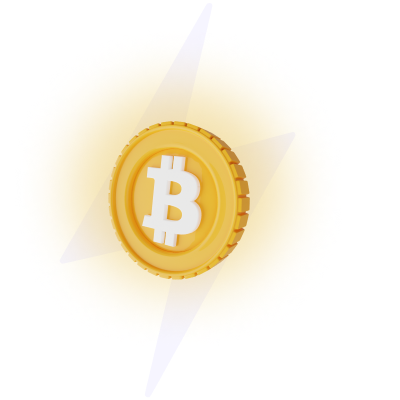
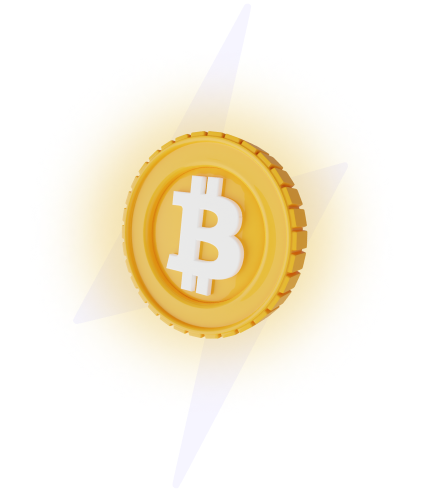
fix: Improve onboarding carousel
Setting viewportFraction: 1.0 uses the full space of the screen instead of only 80% (default).

Changed region(s): [[0.27, 0.24, 0.81, 0.72]]

diff --git a/mobile/lib/features/welcome/onboarding.dart b/mobile/lib/features/welcome/onboarding.dart
@@ -2,9 +2,7 @@ import 'package:carousel_slider/carousel_slider.dart';
 import 'package:flutter/material.dart';
 import 'package:get_10101/common/color.dart';
 import 'package:get_10101/common/global_keys.dart';
-import 'package:get_10101/common/scrollable_safe_area.dart';
 import 'package:get_10101/common/snack_bar.dart';
-import 'package:get_10101/features/wallet/wallet_screen.dart';
 import 'package:get_10101/features/welcome/seed_import_screen.dart';
 import 'package:get_10101/features/welcome/welcome_screen.dart';
 import 'package:get_10101/ffi.dart';
@@ -23,7 +21,7 @@ class CarouselItem {
   CarouselItem(this.title, this.description, this.imagePath);
 }
 
-final List<CarouselItem> caruselItems = [
+final List<CarouselItem> carouselItems = [
   CarouselItem("Your keys, your control", "Stay in control of your funds at all time.",
       "assets/carousel_1.png"),
   CarouselItem("Bitcoin only & Lightning fast.",
@@ -34,38 +32,24 @@ final List<CarouselItem> caruselItems = [
       "You can now send, receive and hold USDP natively on Lightning.", "assets/carousel_4.png"),
 ];
 
-List<Widget> carouselItemWidgetLayers = [
-  carouselItemWidget(caruselItems[0]),
-  carouselItemWidget(caruselItems[1]),
-  carouselItemWidget(caruselItems[2]),
-  carouselItemWidget(caruselItems[3])
-];
-
-Widget carouselItemWidget(CarouselItem item) {
+Widget carouselItemWidget(BuildContext context, CarouselItem item) {
+  final baseHeight = MediaQuery.of(context).size.height * 0.45;
+  final baseWidth = MediaQuery.of(context).size.width * 0.10;
   return Stack(children: [
+    Image.asset(item.imagePath),
     Padding(
-      padding: const EdgeInsets.fromLTRB(0, 0, 10, 0),
-      child: ClipRRect(
-          borderRadius: const BorderRadius.all(Radius.circular(5.0)),
-          child: Image.asset(
-            item.imagePath,
-            fit: BoxFit.cover,
-            width: 800.0,
-          )),
-    ),
-    Padding(
-      padding: const EdgeInsets.fromLTRB(15, 250, 15, 0),
+      padding: EdgeInsets.only(left: baseWidth, right: baseWidth, top: baseHeight),
       child: Text(
         item.title,
-        style: const TextStyle(fontSize: 25, fontWeight: FontWeight.bold),
+        style: const TextStyle(fontSize: 30, fontWeight: FontWeight.bold),
         textAlign: TextAlign.center,
       ),
     ),
     Padding(
-      padding: const EdgeInsets.fromLTRB(15, 325, 15, 0),
+      padding: EdgeInsets.only(left: baseWidth, right: baseWidth, top: baseHeight + 100),
       child: Text(
         item.description,
-        style: const TextStyle(fontSize: 20),
+        style: const TextStyle(fontSize: 18, color: Colors.black54),
         textAlign: TextAlign.center,
       ),
     )
@@ -91,52 +75,64 @@ class _Onboarding extends State<Onboarding> {
 
   @override
   Widget build(BuildContext context) {
+    List<Widget> carouselItemWidgetLayers = [
+      carouselItemWidget(context, carouselItems[0]),
+      carouselItemWidget(context, carouselItems[1]),
+      carouselItemWidget(context, carouselItems[2]),
+      carouselItemWidget(context, carouselItems[3])
+    ];
+
     return Scaffold(
         backgroundColor: Colors.white,
-        body: ScrollableSafeArea(
+        body: SafeArea(
             child: Container(
           color: Colors.white,
-          padding: const EdgeInsets.all(20.0),
+          padding: const EdgeInsets.only(bottom: 20),
           child: Column(
             mainAxisAlignment: MainAxisAlignment.center,
             children: <Widget>[
-              const Spacer(),
-              CarouselSlider(
-                items: carouselItemWidgetLayers,
-                carouselController: _controller,
-                options: CarouselOptions(
-                    scrollDirection: Axis.horizontal,
-                    autoPlay: false,
-                    enlargeCenterPage: true,
-                    aspectRatio: 16 / 20,
-                    padEnds: true,
-                    enableInfiniteScroll: false,
-                    onPageChanged: (index, reason) {
-                      setState(() {
-                        _current = index;
-                      });
-                    }),
+              SizedBox(
+                height: MediaQuery.of(context).size.height * 0.70,
+                child: CarouselSlider(
+                  items: carouselItemWidgetLayers,
+                  carouselController: _controller,
+                  options: CarouselOptions(
+                      viewportFraction: 1.0,
+                      scrollDirection: Axis.horizontal,
+                      autoPlay: false,
+                      enlargeCenterPage: true,
+                      aspectRatio: 15 / 22,
+                      padEnds: true,
+                      enableInfiniteScroll: false,
+                      onPageChanged: (index, reason) {
+                        setState(() {
+                          _current = index;
+                        });
+                      }),
+                ),
               ),
-              Row(
-                mainAxisAlignment: MainAxisAlignment.center,
-                children: carouselItemWidgetLayers.asMap().entries.map((entry) {
-                  return GestureDetector(
-                    onTap: () => _controller.animateToPage(entry.key),
-                    child: Container(
-                      width: 8.0,
-                      height: 8.0,
-                      margin: const EdgeInsets.symmetric(vertical: 8.0, horizontal: 4.0),
-                      decoration: BoxDecoration(
-                          shape: BoxShape.circle,
-                          color: (Theme.of(context).brightness == Brightness.dark
-                                  ? Colors.white
-                                  : Colors.black)
-                              .withOpacity(_current == entry.key ? 0.6 : 0.2)),
-                    ),
-                  );
-                }).toList(),
+              Expanded(
+                child: Row(
+                  mainAxisAlignment: MainAxisAlignment.center,
+                  children: carouselItemWidgetLayers.asMap().entries.map((entry) {
+                    return GestureDetector(
+                      onTap: () => _controller.animateToPage(entry.key),
+                      child: Container(
+                        width: 8.0,
+                        height: 8.0,
+                        margin: const EdgeInsets.symmetric(vertical: 8.0, horizontal: 4.0),
+                        decoration: BoxDecoration(
+                            shape: BoxShape.circle,
+                            color: (Theme.of(context).brightness == Brightness.dark
+                                    ? Colors.white
+                                    : Colors.black)
+                                .withOpacity(_current == entry.key ? 0.6 : 0.2)),
+                      ),
+                    );
+                  }).toList(),
+                ),
               ),
-              const Spacer(),
+              const SizedBox(height: 10),
               Column(children: [
                 SizedBox(
                   width: 250,
